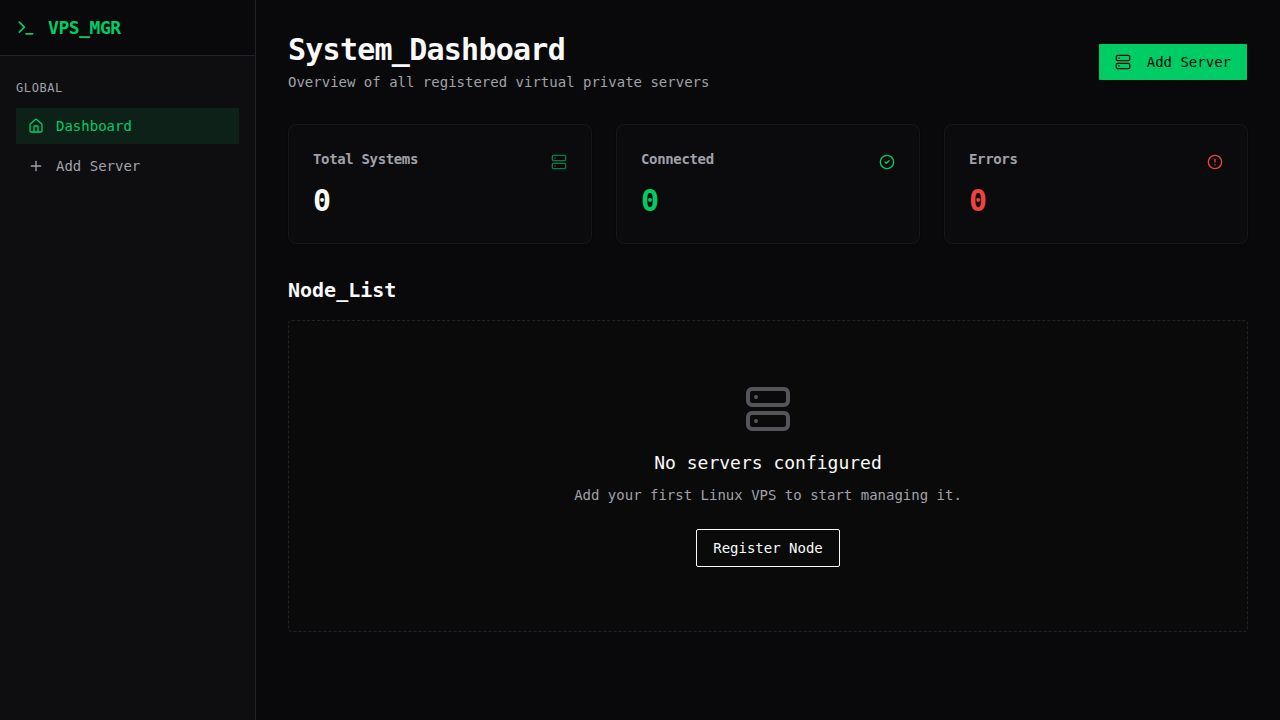
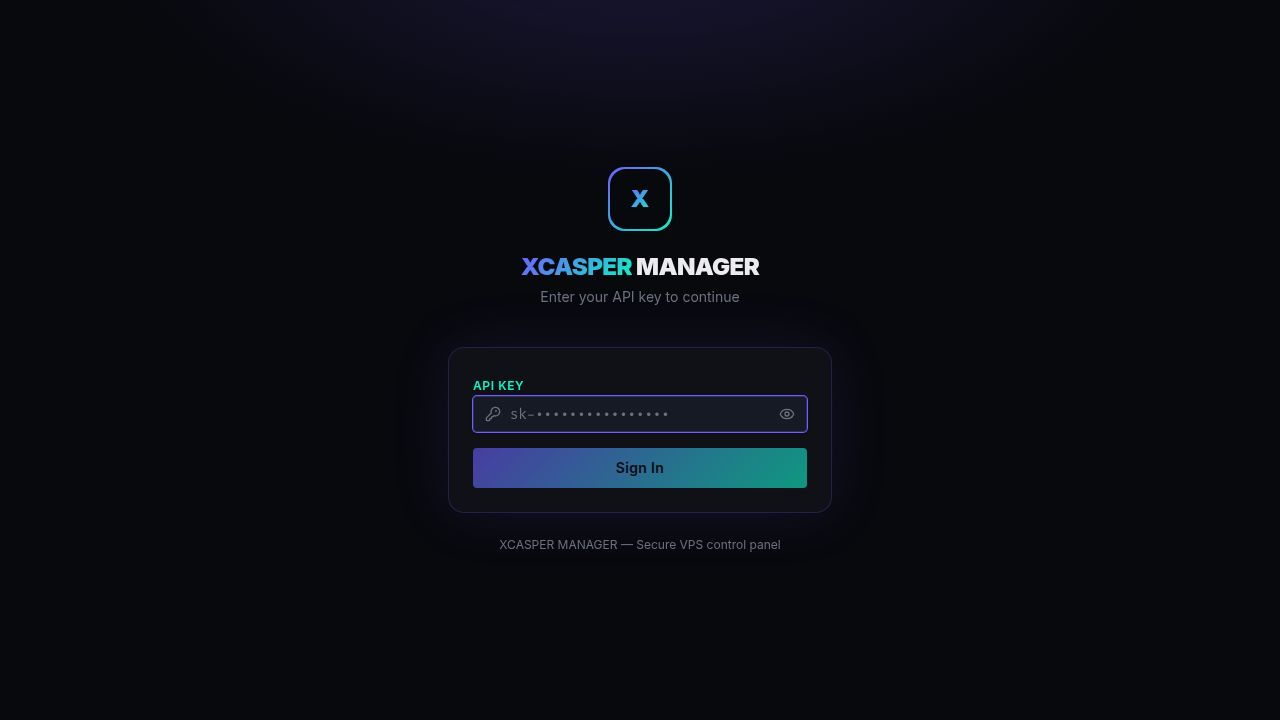
Task #2: Brand, Auth & Home page redesign — XCASPER MANAGER
## What was done
- Rebranded the entire app to XCASPER MANAGER (xcasper.space brand family)
- New favicon: gradient X on dark background (#08090d)
- Full CSS theme overhaul: purple #6e5cff, cyan #0ff4c6, bg #08090d, surface #0f1117
- Added Google Fonts: Inter (UI) + Fira Code (mono)
- Brand utility classes: .brand-gradient, .brand-gradient-bg, .brand-border, .brand-glow

## New backend routes (artifacts/api-server)
- GET /api/auth/verify — validates Bearer token against API_KEY env secret
- POST /api/auth/logout — stub
- GET /api/system/info — returns hostname, OS, CPU, memory, disk, network, uptime
- POST /api/system/clear-cache — runs sync + drop_caches (graceful failure if not root)

## New frontend components (artifacts/vps-manager)
- src/contexts/auth-context.tsx — auth state, login/logout, welcomeShown tracking
- src/pages/login.tsx — branded login screen with API key input + error state
- src/components/welcome-modal.tsx — T&C modal on first login, Buy a Coffee link
- src/components/navbar.tsx — fixed top navbar with nav links + social links + logout
- src/components/footer.tsx — bottom footer with brand + social links
- src/pages/home.tsx — system dashboard with CPU/memory/disk/network cards

## App.tsx routing
- Route / → Home (protected)
- Route /login → Login
- Route /files → FileManager (protected)
- Route /terminal → FileManager with terminal panel open
- ProtectedLayout wraps all auth'd pages (Navbar + Footer + WelcomeModal)

## File manager updates
[…]

diff --git a/artifacts/vps-manager/src/pages/home.tsx b/artifacts/vps-manager/src/pages/home.tsx
@@ -6,7 +6,7 @@ import { Input } from "@/components/ui/input";
 import { Skeleton } from "@/components/ui/skeleton";
 import { useToast } from "@/hooks/use-toast";
 import {
-  Cpu, MemoryStick, HardDrive, Activity,
+  Cpu, MemoryStick, HardDrive, Activity, Clock,
   Server, RefreshCw, FolderOpen, Search, Trash2,
   Network, Users, Terminal,
 } from "lucide-react";

diff --git a/replit.md b/replit.md
@@ -21,7 +21,7 @@ pnpm workspace monorepo using TypeScript. Each package manages its own dependenc
 artifacts-monorepo/
 ├── artifacts/              # Deployable applications
 │   ├── api-server/         # Express API server
-│   └── vps-manager/        # React + Vite file manager frontend (at /)
+│   └── vps-manager/        # React + Vite frontend (XCASPER MANAGER UI)
 ├── lib/                    # Shared libraries
 │   ├── api-spec/           # OpenAPI spec + Orval codegen config
 │   ├── api-client-react/   # Generated React Query hooks
@@ -33,10 +33,46 @@ artifacts-monorepo/
 └── package.json            # Root package with hoisted devDeps
 ```
 
-## File Manager App
+## XCASPER MANAGER App
 
-A **local file manager** — a browser-based UI to manage files on the server it's deployed on.
-No SSH, no remote connections. Reads/writes the local filesystem via Node.js `fs`.
+A **branded local VPS file manager** for the xcasper.space brand family. Browser-based UI to manage files on the server it's deployed on. Secured by API key authentication.
+
+### Brand / Theme
+- **App name**: XCASPER MANAGER
+- **Brand**: xcasper.space by TRABY CASPER
+- **Colors**: bg `#08090d`, purple `#6e5cff`, cyan `#0ff4c6`, surface `#0f1117`
+- **Gradient**: `linear-gradient(135deg, #6e5cff, #0ff4c6)`
+- **Fonts**: Inter (UI), Fira Code (mono)
+
+### Authentication
+- `API_KEY` environment secret — set via Replit Secrets
+- Login page at `/login` — API key stored in `sessionStorage` as `xcm_api_key`
+- Auth context at `src/contexts/auth-context.tsx`
+- Backend: `GET /api/auth/verify` (Bearer token), `POST /api/auth/logout`
+
+### Frontend Structure
+```text
+src/
+├── App.tsx                   # Router + AuthProvider + layout
+├── contexts/
+│   └── auth-context.tsx      # Auth state, login/logout, welcomeShown
+├── pages/
+│   ├── login.tsx             # Login screen (unauthenticated entry point)
+│   ├── home.tsx              # System dashboard (default protected page)
+│   ├── file-manager.tsx      # File manager + terminal (accepts initialPanel prop)
+│   └── not-found.tsx         # 404 page
+└── components/
+    ├── navbar.tsx             # Fixed top navbar with nav links + social links + logout
+    ├── footer.tsx             # Bottom footer with links
+    └── welcome-modal.tsx      # First-login T&C modal (dismissed once per session)
+```
+
+### Routes
+- `/login` — Login page (redirects to `/` if already authenticated)
+- `/` — Home: System dashboard with CPU/memory/disk stats
+- `/files` — File manager
+- `/terminal` — File manager with terminal panel open
+- `/dev` — Dev page (placeholder, Task #3)
 
 ### Features
 - **Browse**: Navigate the full filesystem including root (`/`)
@@ -48,14 +84,21 @@ No SSH, no remote connections. Reads/writes the local filesystem via Node.js `fs
   - **Text/logs**: plain preformatted view
   - **Binary**: "cannot display" notice
 - **Edit**: In-browser text editor with save (text/code files only)
-- **Create**: New files (created empty, then opened for editing) and new directories
+- **Create**: New files and new directories
 - **Delete**: With confirmation dialog; recursive delete for directories
 - **Rename**: Rename a file/folder within its parent directory
 - **Move**: Move a file or folder to any absolute destination path
 - **Terminal**: Run shell commands on the server; `cd` persists working directory
+- **System Info**: Real-time CPU, memory, disk, network, uptime on home page
+- **Search**: Search bar on home page that navigates to `/files?q=...`
+- **Clear Cache**: `POST /api/system/clear-cache` — runs `sync` + drops page cache
 
 ### API Endpoints
 All endpoints are under `/api`:
+- `GET /auth/verify` — validate API key (Bearer token)
+- `POST /auth/logout` — stub logout
+- `GET /system/info` — system info (hostname, OS, CPU, memory, disk, network, uptime)
+- `POST /system/clear-cache` — sync + drop_caches
 - `GET /files/list?path=` — list directory contents (sorted dirs-first)
 - `GET /files/read?path=` — read file content as JSON (detects binary; max 5MB text)
 - `GET /files/raw?path=` — stream raw file bytes with correct Content-Type (for media)
@@ -64,9 +107,6 @@ All endpoints are under `/api`:
 - `POST /files/mkdir` — create directory (recursive) `{ path }`
 - `POST /files/rename` — rename or move `{ oldPath, newPath }`
 - `POST /terminal/exec` — execute a shell command `{ command, cwd? }`
-
-### Frontend
-Single page React app (`src/pages/file-manager.tsx`). No sidebar or routing beyond `/?path=…`.
 
 ## TypeScript & Composite Projects
 
@@ -85,12 +125,12 @@ Every package extends `tsconfig.base.json` which sets `composite: true`. The roo
 
 ### `artifacts/api-server` (`@workspace/api-server`)
 
-Express 5 API server. Routes: `files.ts`, `terminal.ts`, `health.ts`.
+Express 5 API server. Routes: `files.ts`, `terminal.ts`, `health.ts`, `auth.ts`, `system.ts`.
 Uses `@workspace/api-zod` for validation, Node.js `fs` for filesystem ops.
 
 ### `artifacts/vps-manager` (`@workspace/vps-manager`)
 
-React + Vite frontend. Single page file manager with dark theme.
+React + Vite frontend. XCASPER MANAGER brand. Auth-protected routing with navbar/footer/welcome modal.
 Uses `@workspace/api-client-react` for React Query hooks.
 
 ### `lib/api-spec` (`@workspace/api-spec`)
@@ -105,3 +145,9 @@ Generated Zod schemas from the OpenAPI spec. Used by `api-server` for validation
 ### `lib/api-client-react` (`@workspace/api-client-react`)
 
 Generated React Query hooks and fetch client from the OpenAPI spec.
+
+## Environment Variables / Secrets
+
+- `API_KEY` — (Replit Secret) The API key required to log in to XCASPER MANAGER
+- `SESSION_SECRET` — (Replit Secret) Session secret (available but not currently used for session middleware)
+- `DATABASE_URL` — PostgreSQL connection string (managed by Replit)
